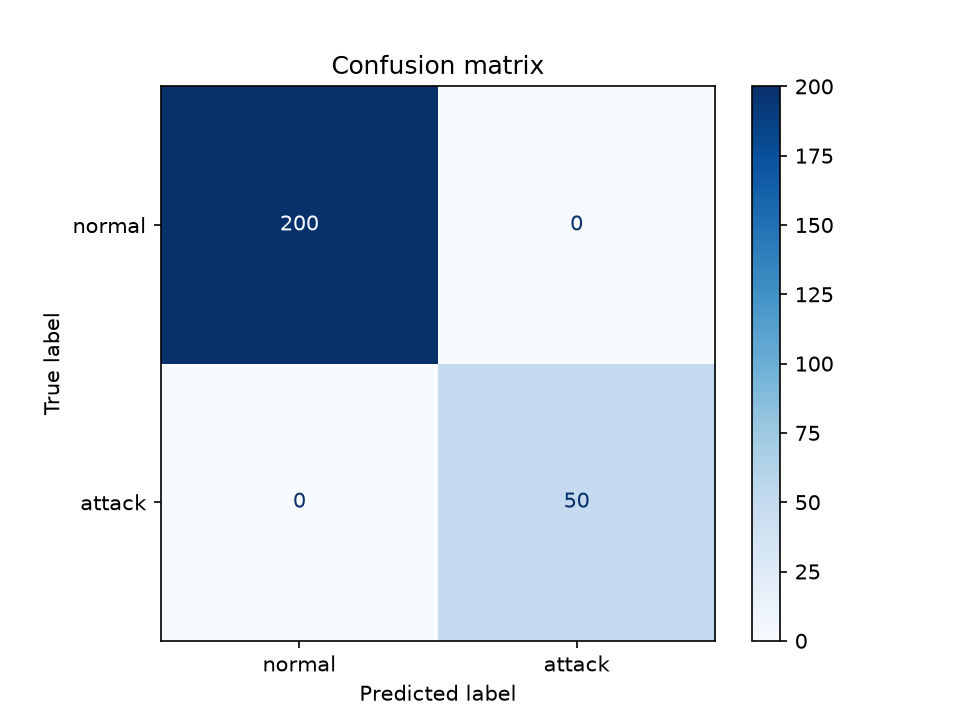
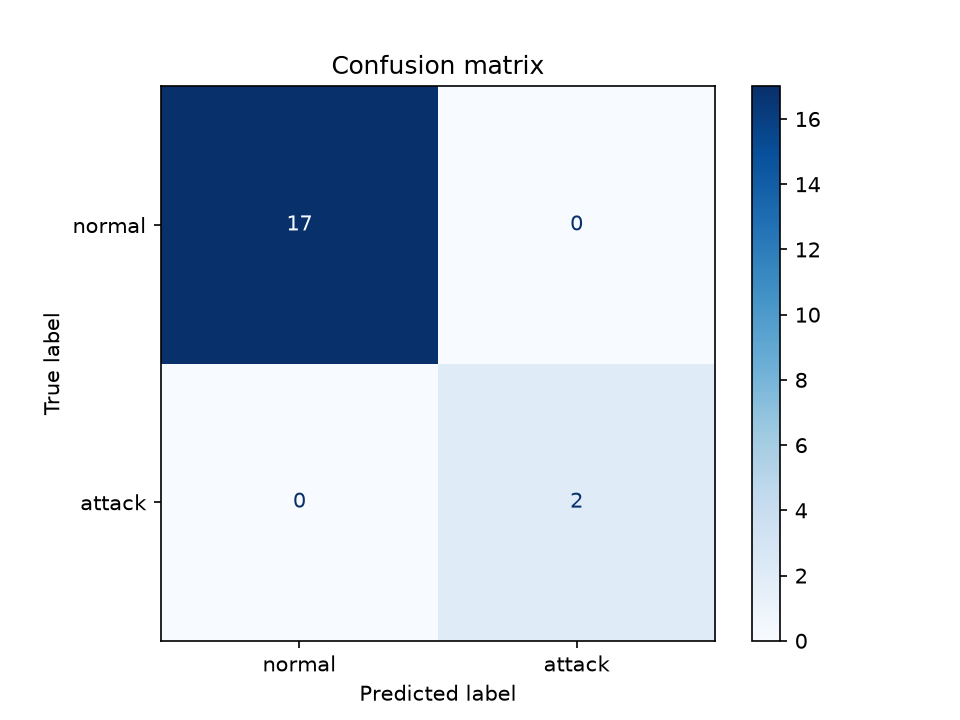
Add real AWID3 data pipeline with deauth_ratio feature”)

diff --git a/my_data.py b/my_data.py
@@ -6,6 +6,7 @@ from datetime import datetime
 rng = np.random.default_rng(42)
 n_normal = 800
 n_attack = 200
+n_borderline = 50
 
 def make_data():
     # Normal devices
@@ -23,7 +24,13 @@ def make_data():
         "signal_strength": rng.normal(-55, 10, n_attack),
         "label": 1,
     })
-
+    #borderline
+    borderline = pd.DataFrame({
+        "frames_per_sec": rng.integers(40, 50, n_borderline),
+        "deauth_per_sec": rng.integers(15, 40, n_borderline),
+        "signal_strength": rng.normal(-65, 10, n_borderline),
+        "label": 1,
+    })
     # Combine and shuffle
     data = pd.concat([normal, attack]).sample(frac=1, random_state=1).reset_index(drop=True)
     print(data.head(10))
@@ -35,7 +42,7 @@ def split_data(data):
     from sklearn.ensemble import RandomForestClassifier
 
     # X = the inputs the model looks at, y = the answer we want it to predict
-    X = data[["frames_per_sec", "deauth_per_sec", "signal_strength"]]
+    X = data[["frames_per_sec", "deauth_per_sec", "signal_strength", "deauth_ratio"]]
     y = data["label"]
 
     # Hold back 25% of rows that the model never sees during training
@@ -87,7 +94,7 @@ def run_live_detection(model, X_test):
         if mac in blocked:
             continue  # already blocked, ignore
 
-        features = pd.DataFrame([row[["frames_per_sec", "deauth_per_sec", "signal_strength"]]])
+        features = pd.DataFrame([row[["frames_per_sec", "deauth_per_sec", "signal_strength", "deauth_ratio"]]])
         result = model.predict(features)[0]
 
         if result == 1:  # which label means attack?
@@ -101,8 +108,13 @@ def run_live_detection(model, X_test):
 
     print(f"\n{len(blocked)} attackers blocked")
 
+def load_real_data(path="awid3_features.csv"):
+    data = pd.read_csv(path)
+    print(data["label"].value_counts())
+    return data
+
 if __name__ == "__main__":
-    data = make_data()
+    data = load_real_data()          # was: data = make_data()
     X_train, X_test, y_train, y_test = split_data(data)
     model = train_model(X_train, y_train)
     evaluate_model(model, X_test, y_test)

diff --git a/load_awid3.py b/load_awid3.py
@@ -1,0 +1,43 @@
+import pandas as pd
+
+# Only pull the columns we actually need, out of 254, this is what keeps memory sane.
+cols = [
+    "frame.time_epoch", "wlan.sa", "wlan.fc.type", "wlan.fc.subtype",
+    "wlan_radio.signal_dbm", "radiotap.dbm_antsignal", "Label",
+]
+
+raw = pd.read_csv("Deauth_32.csv", usecols=cols, low_memory=False)
+print("Raw packets loaded:", len(raw))
+print(raw["Label"].value_counts())        # sanity check: what labels actually appear
+print(raw["wlan.fc.subtype"].value_counts().head(10))  # sanity check: how subtype is stored
+
+# Drop rows with no sender address or no timestamp, nothing to group them by
+raw = raw.dropna(subset=["wlan.sa", "frame.time_epoch"])
+
+# Combine the two possible signal-strength columns (one is often mostly empty)
+raw["signal"] = raw["wlan_radio.signal_dbm"].fillna(raw["radiotap.dbm_antsignal"])
+
+# Bucket each packet into its 1-second window
+raw["time_bucket"] = raw["frame.time_epoch"].astype(float).astype(int)
+
+# Was this packet a deauthentication frame? (subtype 12)
+raw["is_deauth"] = pd.to_numeric(raw["wlan.fc.subtype"], errors="coerce") == 12
+
+# Group: one row per (device, second)
+grouped = raw.groupby(["wlan.sa", "time_bucket"]).agg(
+    frames_per_sec=("wlan.sa", "size"),
+    deauth_per_sec=("is_deauth", "sum"),
+    signal_strength=("signal", "mean"),
+    label_text=("Label", lambda s: s.iloc[0]),
+).reset_index()
+
+grouped["label"] = (grouped["label_text"].str.strip().str.lower() != "normal").astype(int)
+grouped = grouped.rename(columns={"wlan.sa": "mac"})
+grouped["deauth_ratio"] = grouped["deauth_per_sec"] / grouped["frames_per_sec"].clip(lower=1)
+
+grouped.to_csv("awid3_features.csv", index=False)
+print("\nFinal feature rows:", len(grouped))
+print(grouped["label"].value_counts())
+print(grouped.head())
+
+print(grouped[grouped["label"] == 1][["mac", "frames_per_sec", "deauth_per_sec", "signal_strength"]])
